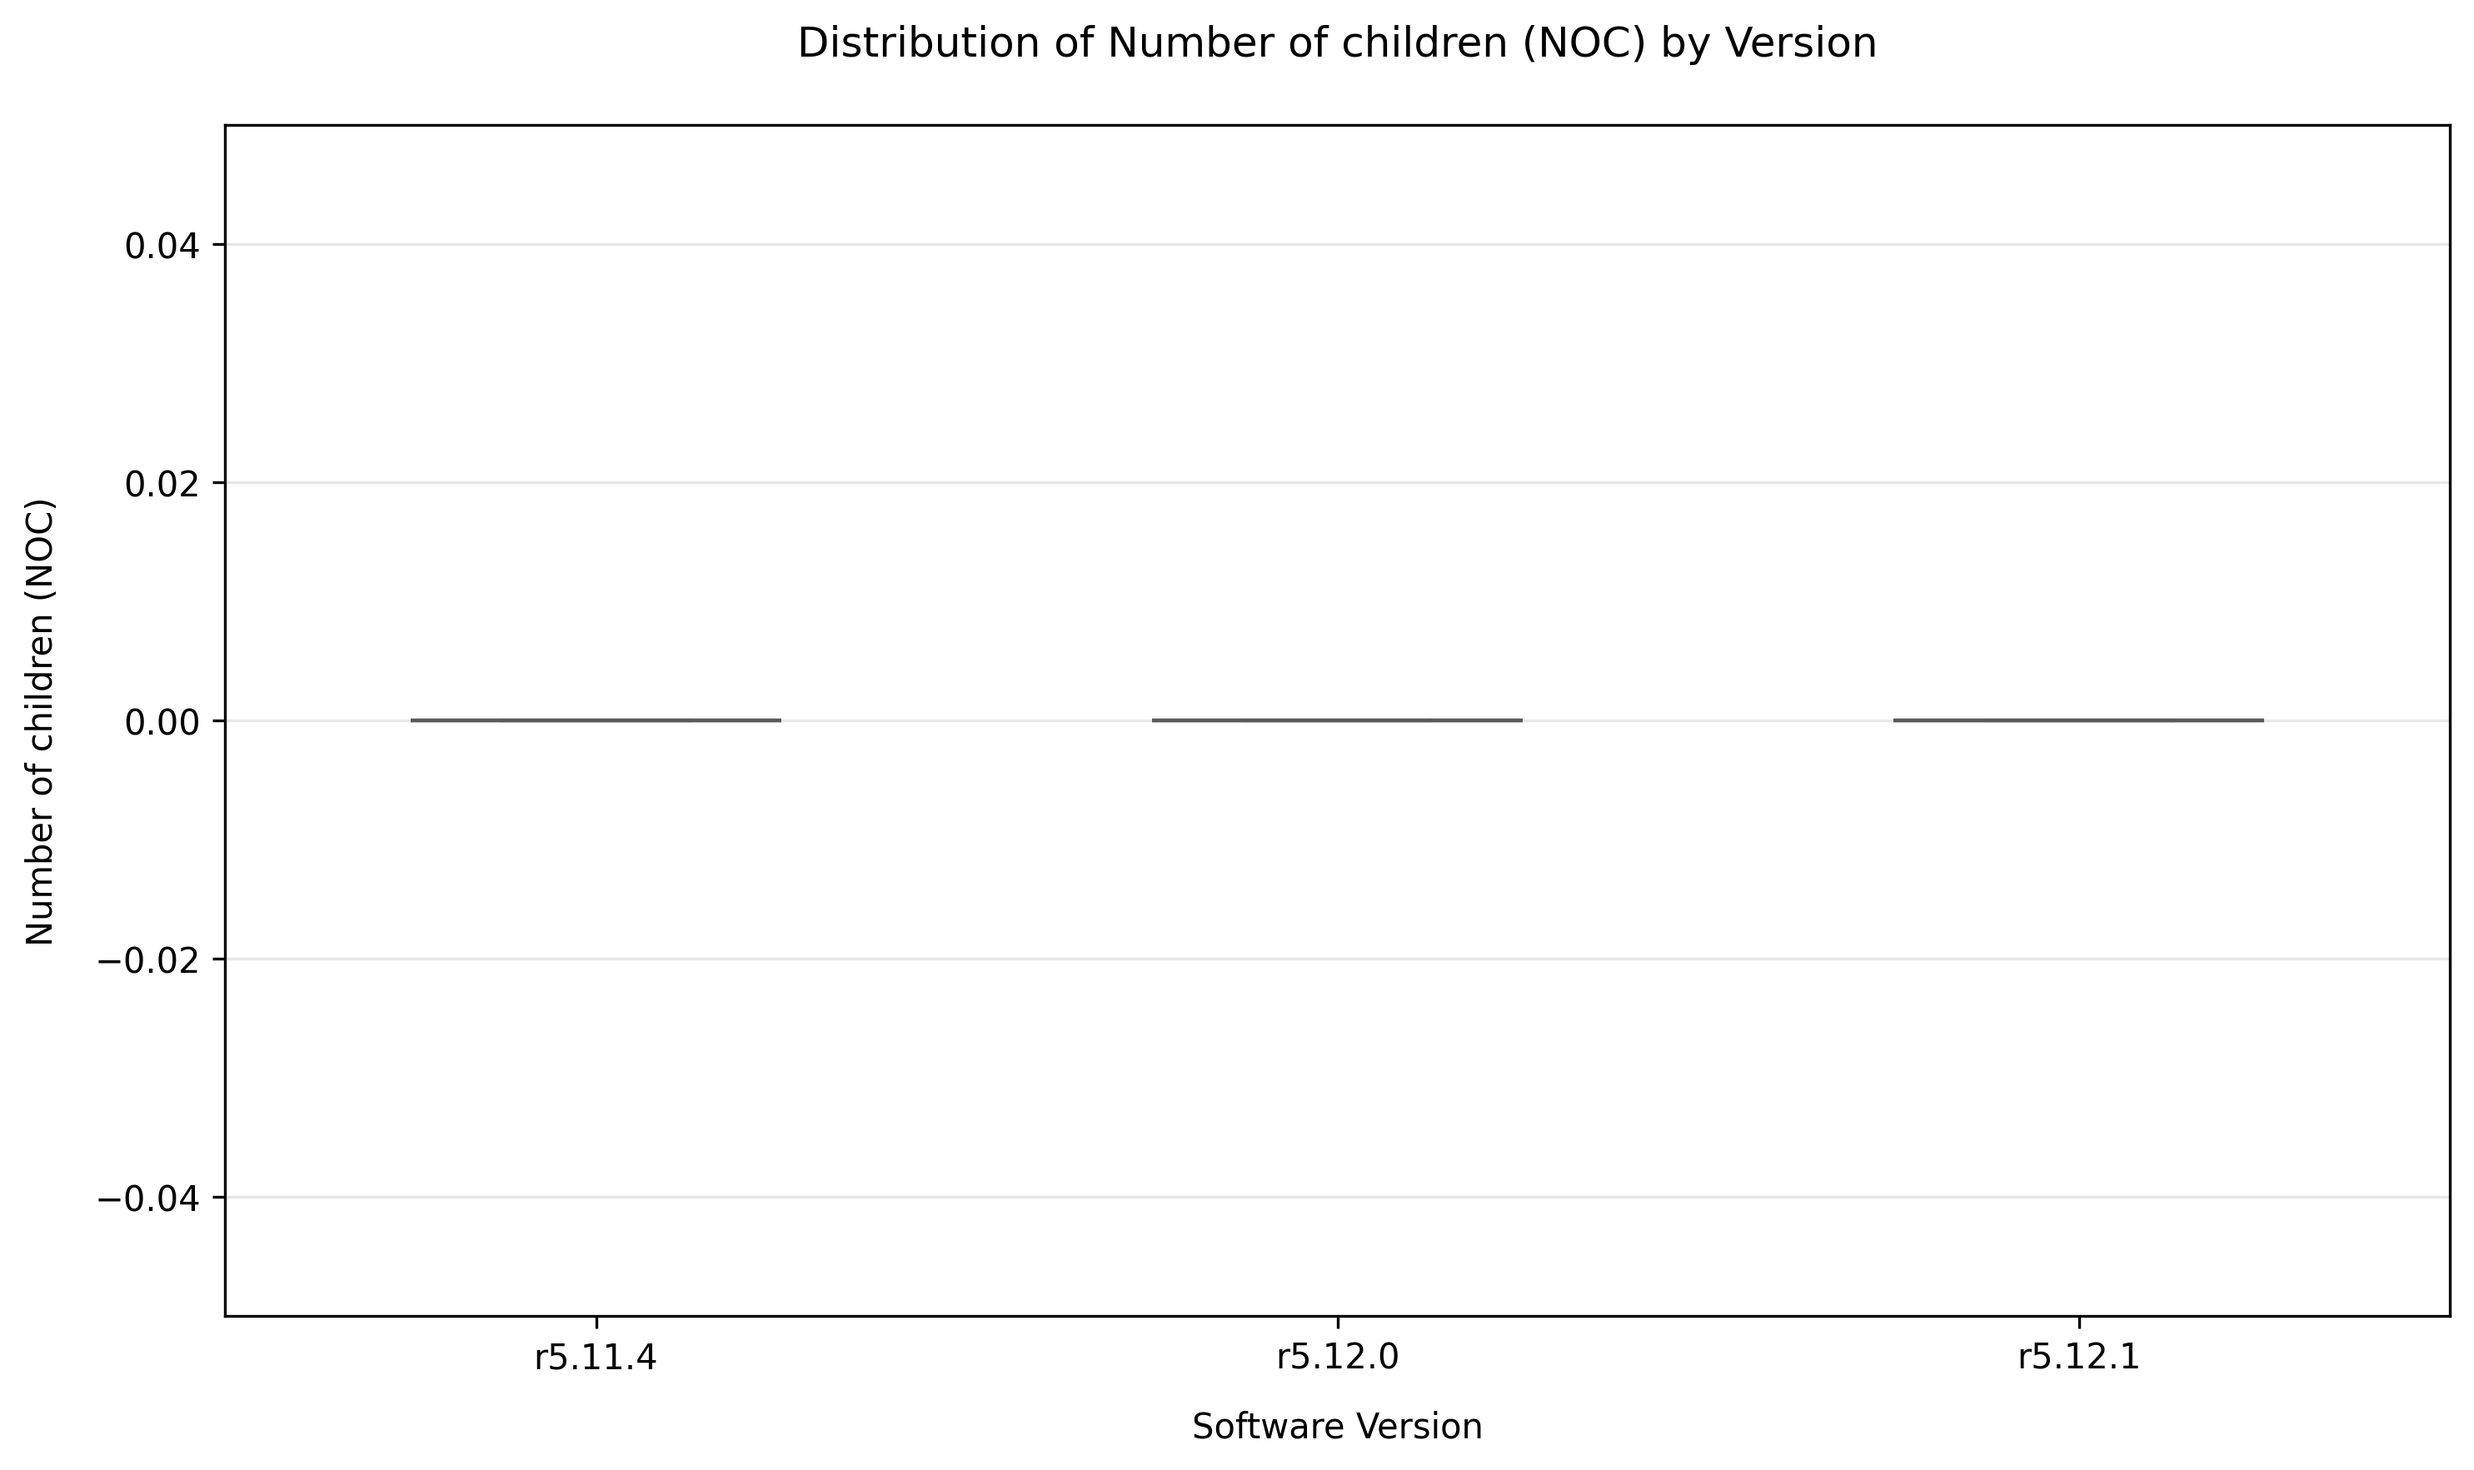
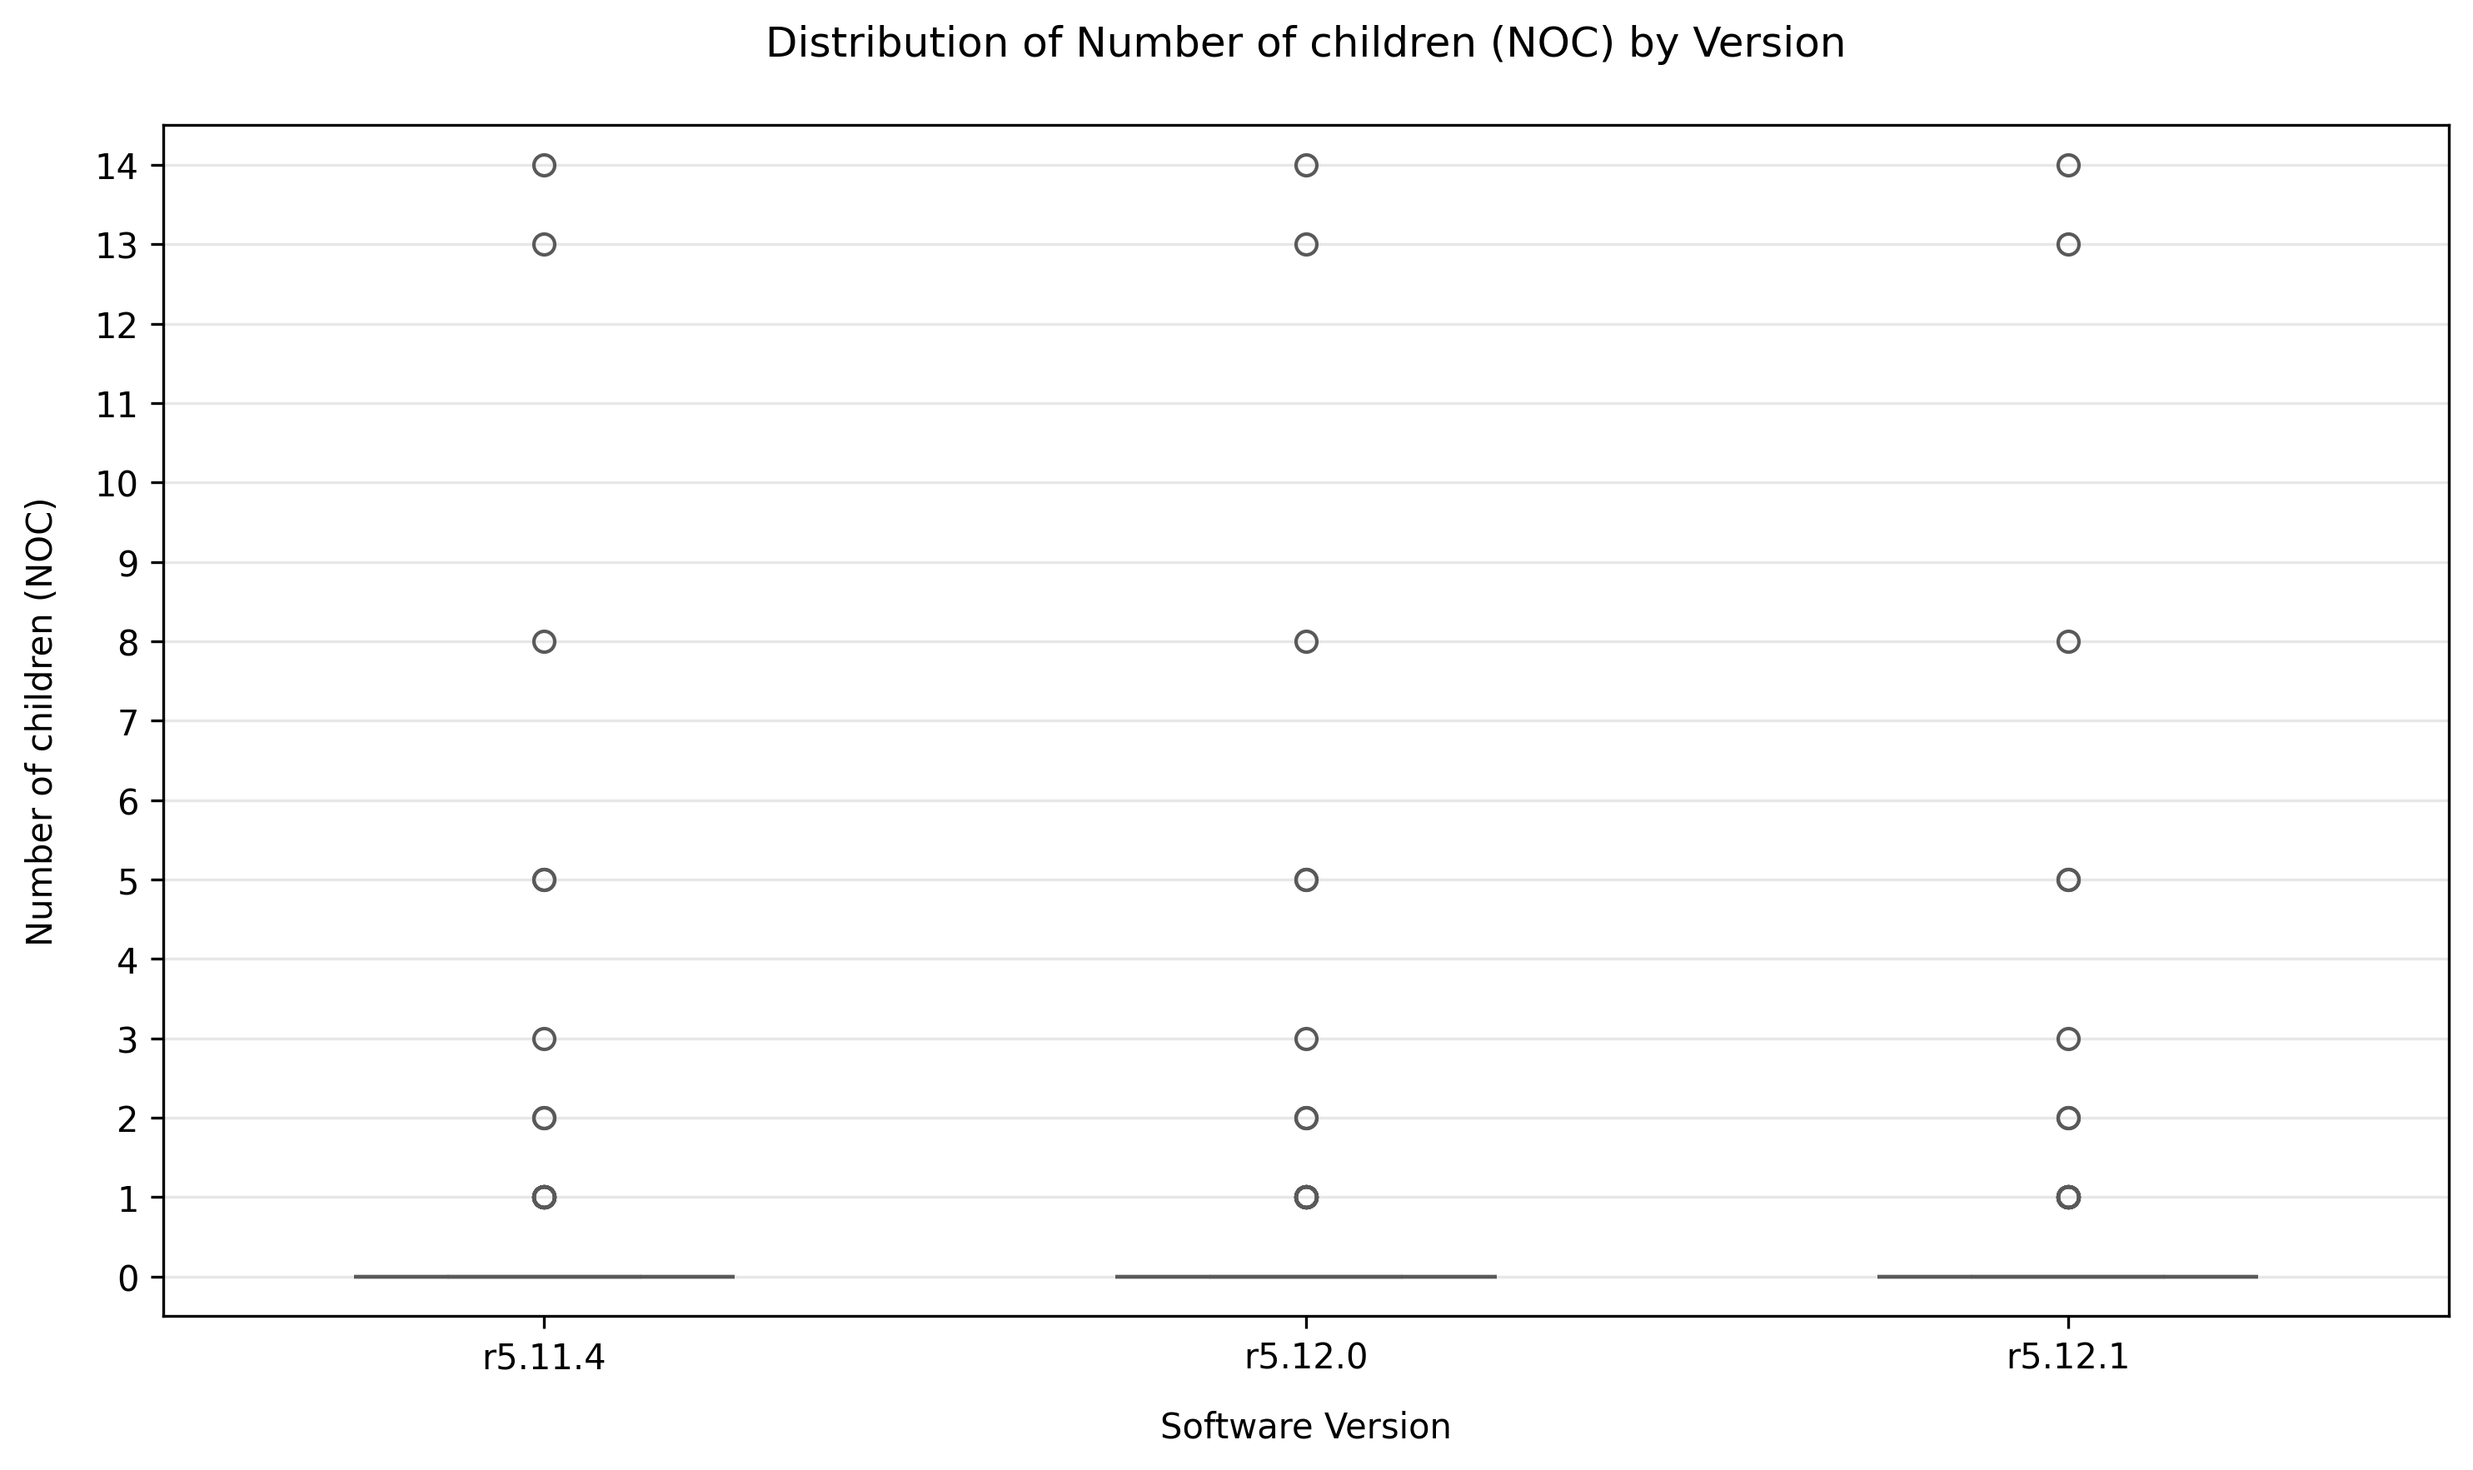
refactor for maxinheritance and derived

diff --git a/csvs/csvs/boxplot.py b/csvs/csvs/boxplot.py
@@ -107,6 +107,13 @@ for metric in class_metrics:
     # Generate IMPROVED boxplot with clean data
     plt.figure(figsize=(10, 6))
     try:
+
+         # Determine which metrics should have notches
+        if metric in ['CountClassDerived', 'MaxInheritanceTree', 'CountClassCoupled']:
+            use_notch = False  # Disable notches for these discrete metrics
+        else:
+            use_notch = True   # Enable notches for continuous metrics
+
         # Create boxplot with notches and proper formatting
         sns.boxplot(
             x='Tag', 
@@ -131,13 +138,18 @@ for metric in class_metrics:
         plt.ylabel(quality_mapping.get(metric, metric), labelpad=10)
         
         # Adjust y-axis limits to show outliers but not too much empty space
-        y_min = max(clean_data[metric].min(), lower_threshold - iqr)
-        y_max = min(clean_data[metric].max(), upper_threshold + iqr)
-        plt.ylim(y_min, y_max)
+         # Special y-axis handling for discrete metrics
+        if metric in ['CountClassDerived', 'MaxInheritanceTree']:
+            max_val = int(clean_data[metric].max())
+            plt.yticks(range(0, max_val + 1))
+            plt.ylim(-0.5, max_val + 0.5)
+        else:
+            y_min = max(clean_data[metric].min(), lower_threshold - iqr)
+            y_max = min(clean_data[metric].max(), upper_threshold + iqr)
+            plt.ylim(y_min, y_max)
         
         # Add grid for better readability
         plt.grid(axis='y', alpha=0.3)
-        
         # Save with high DPI and tight layout
         plt.tight_layout()
         plt.savefig(f'outputs/{metric}_boxplot.png', dpi=300, bbox_inches='tight')
